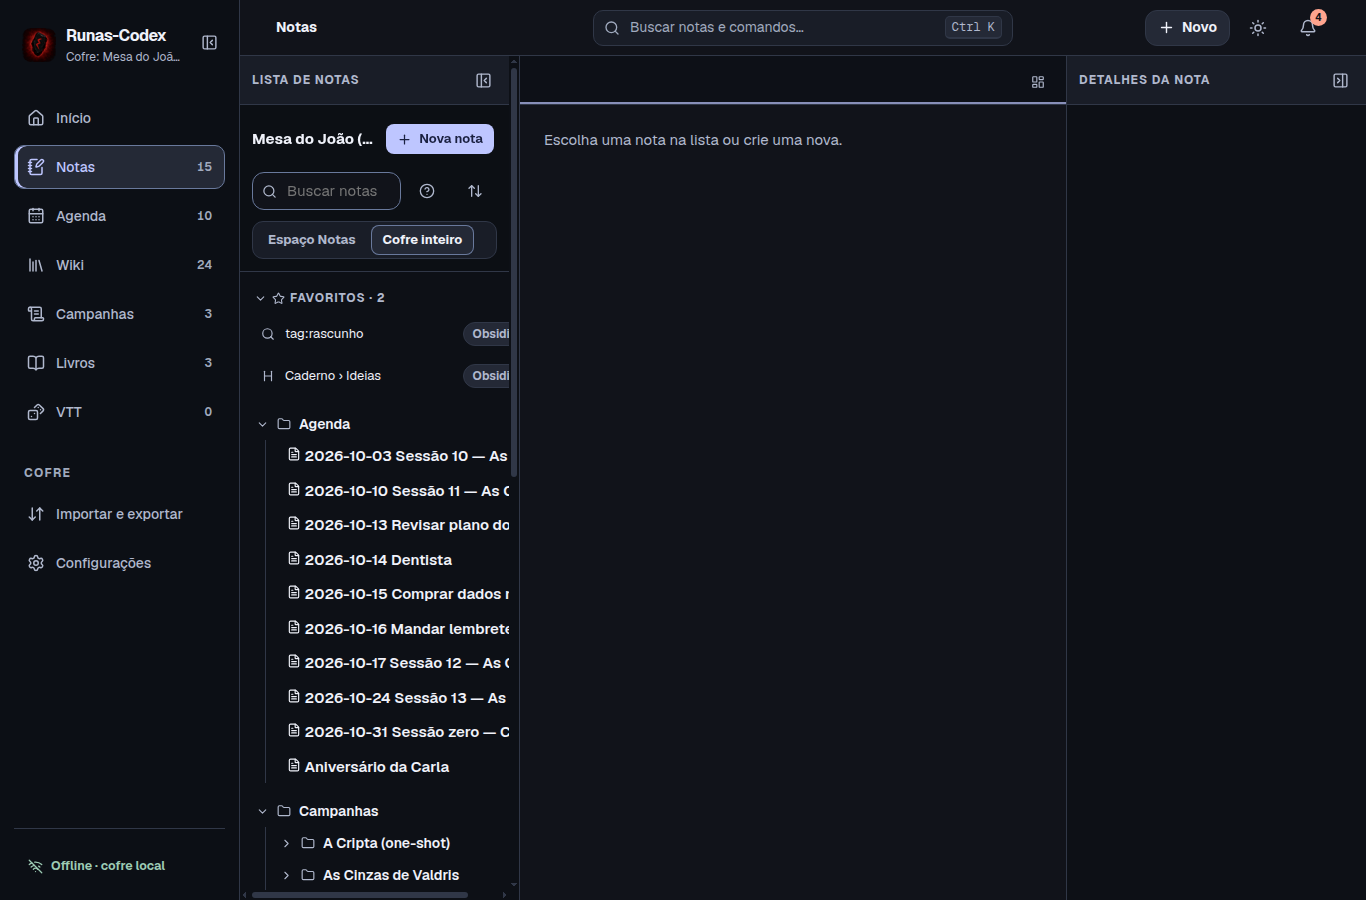
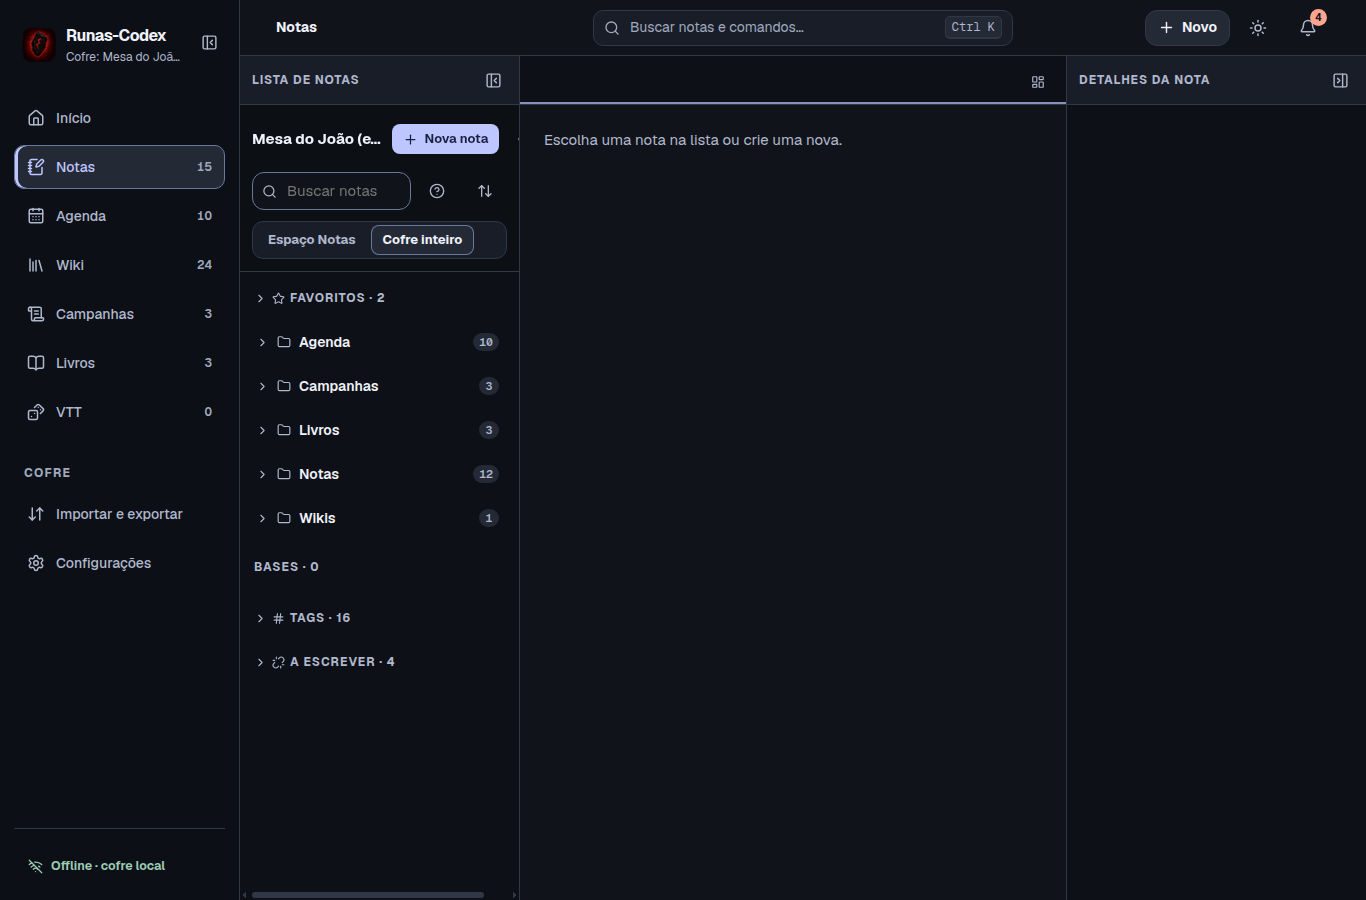
Mostra os contadores das raízes nas capturas comparativas

diff --git a/docs/testes-1.5-contagem-pastas.md b/docs/testes-1.5-contagem-pastas.md
@@ -6,7 +6,7 @@ A bolinha mostrava só as notas diretamente na pasta: Campanhas, Livros e Wikis 
 
 Quatro testes do núcleo cobrem pastas sem notas próprias, arquivos de tipos diferentes, deduplicação/descendentes, pastas vazias e ocultas. Resultados gerais de tipos, suíte, builds, smokes e CI ficam na descrição do PR.
 
-Cofre de exemplo em memória, perfis novos do Electron offscreen; nenhuma captura do cofre pessoal. 320/390/1366 px × claro/escuro, antes e depois: seis pares sem rolagem lateral e sequência de Tab idêntica. No exemplo: Campanhas 0→3, Livros 0→3, Wikis 0→1, Notas 8→12 (8 notas + 1 imagem + 3 pastas). Dados completos em [antes](imagens/contagem-pastas-1.5/antes.json) e [depois](imagens/contagem-pastas-1.5/depois.json).
+Cofre de exemplo em memória, perfis novos do Electron offscreen; nenhuma captura do cofre pessoal. Pastas recolhidas para mostrar os contadores das cinco raízes. 320/390/1366 px × claro/escuro, antes e depois: seis pares sem rolagem lateral e mesma ordem dos controles no Tab. No exemplo: Campanhas 0→3, Livros 0→3, Wikis 0→1, Notas 8→12 (8 notas + 1 imagem + 3 pastas). Dados completos em [antes](imagens/contagem-pastas-1.5/antes.json) e [depois](imagens/contagem-pastas-1.5/depois.json).
 
 | Largura/tema | Antes | Depois |
 |---|---|---|
